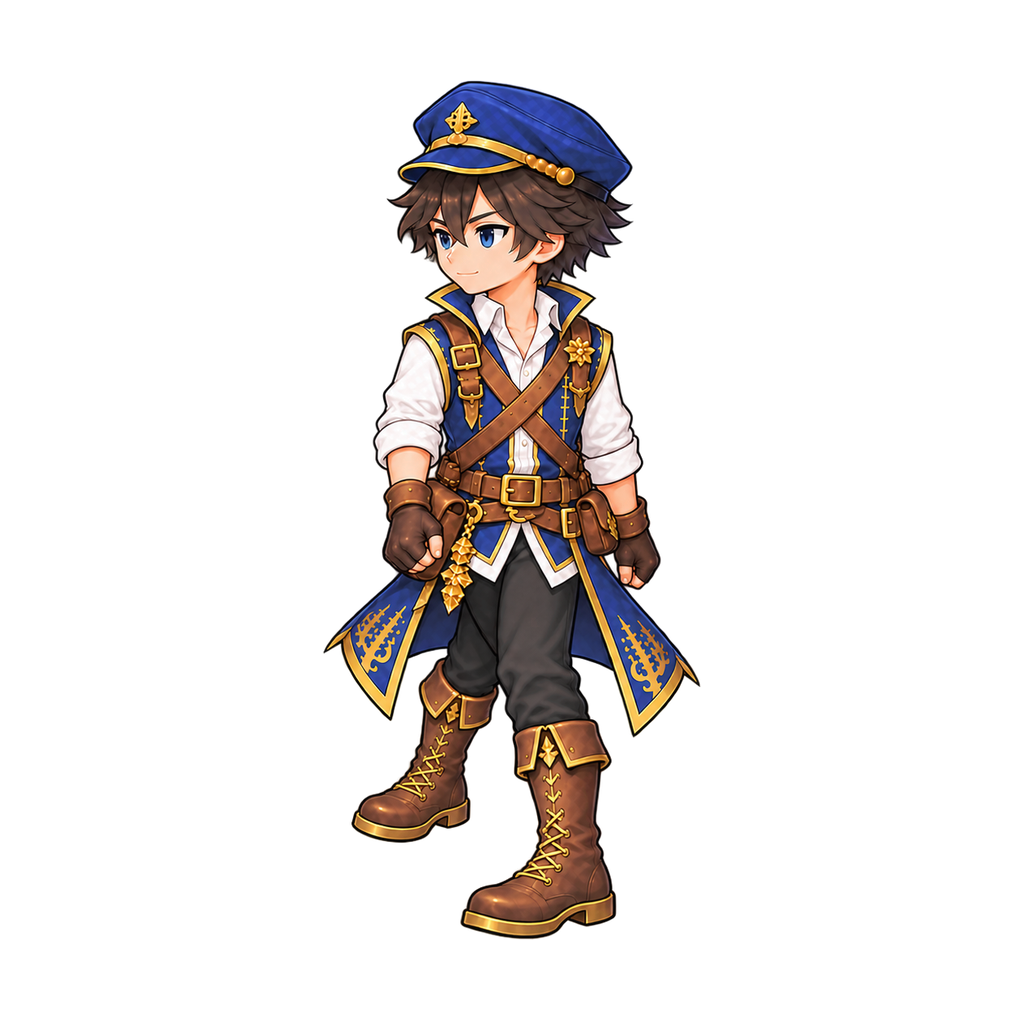
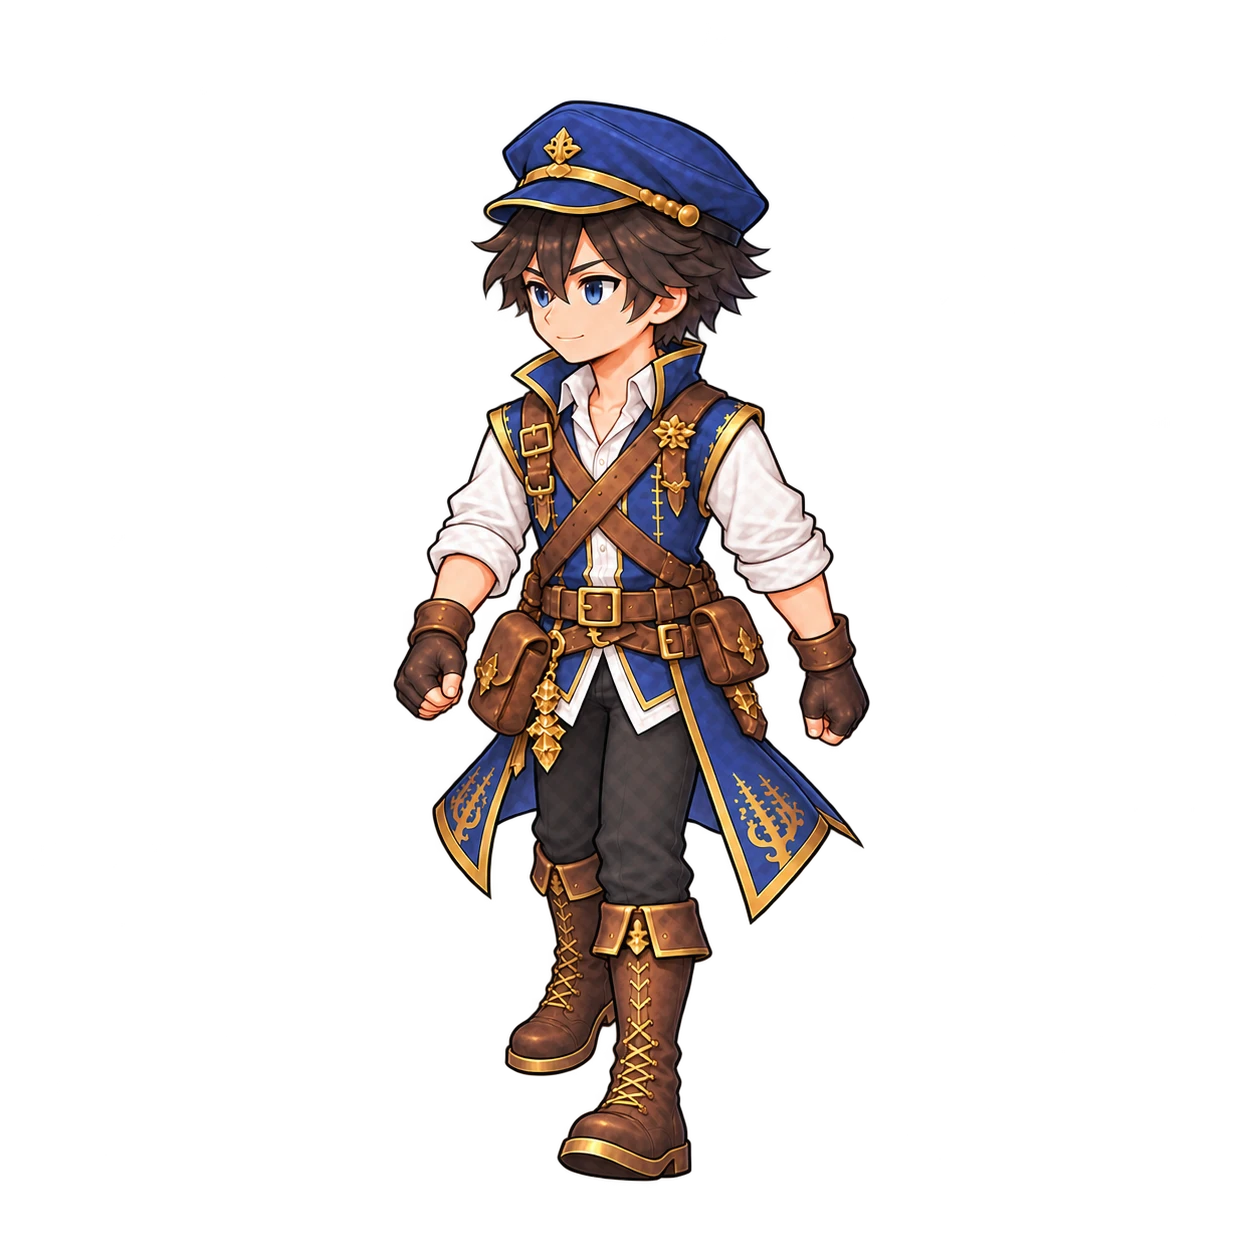
男性主人公の斜め前・右足前と左足前を、別の生成AIで作った対の2枚に差し替え（ユーザー承認）
Claude-Session: https://claude.ai/code/session_01RvBABkjo9HJpsiThHncs5B

Changed region(s): [[0.3125, 0.0625, 0.6875, 0.9688]]

diff --git a/docs/handoff.md b/docs/handoff.md
@@ -23,7 +23,7 @@
 | 歩きのカクつき | **2026-10-23 `fix/smooth-walk`：街・部屋で歩くときのカクつきを直した（`a2b5b51` で公開。ユーザーの iPhone 確認待ち。問題が残れば「半歩」の歩きの絵を頼んで足す、とユーザー）**。原因は1マス進むごとに1コマ止まっていたこと（iPhone の画面録画で6コマに1回止まっていた）。マスに着いたら、あまった時間でそのまま次のマスへ進むように（`#step`・`#startNext`）。地図の位置は論理px ではなく画面の実際の画素でそろえる（`#pixelSnap`。人物が地図に対して揺れないように）。作業環境では止まるコマが 0 になったことを確認。iPhone では未確認。あわせて、足の動きを4コマ→8コマにするための「半歩」のポーズの依頼文を作った（`docs/design/walk-inbetween-20261023/`。まず主人公（男性）の正面1枚。届いたら組み込んで比べる。いまの絵と違いが大きければ使わない） |
 | 人物の大きさ・走る | **2026-10-23 `feature/walk-run-size`（`07a768c` で公開。ユーザーの iPhone 確認待ち）**：①人物を 1.2 倍に（`FIGURE_ZOOM`。街・部屋の全員。ダンジョンは変えない）。ぼやけないよう歩行シートを原本から 1.5 倍（1コマ 324×432）・WebP で作り直した（`adult_walk_build.py --scale 1.5`）②走る：スティックを大きく倒す（36 論理px 以上、28 未満で歩きに戻る）と 1.7 倍の速さ。スティックのつまみが金色に。パソコンは Shift。走る絵が無いので歩きの絵を大きな歩幅（背たけ×0.6）・大きな弾みで③なめらかさ：歩き出しの加速（0.15秒）・止まる最後のマスの減速、カメラが少し遅れて追う（`CAMERA_FOLLOW`）。走る絵の依頼文は `docs/design/run-20261023/`（主人公2人だけ）。作業環境で全部屋の表示と動きを確認。iPhone は未確認 |
 | コマ飛び対策・横幅 | **2026-10-23 `fix/walk-perf`（公開。ユーザーの iPhone 確認待ち）**：iPhone の画面録画（14:11）で、走ると2コマに1回ほどコマが飛んでいた（作業環境の Chromium では再現しない）。対策：人物の色の調整を CSS の filter から絵への焼き込みに（`adult_walk_build.py --tone`）、歩行シートを 1.5 倍→1.25 倍（1コマ 270×360）、主人公と影を別の層に（`will-change`）、毎コマの z-index・data 属性の書き換えを変わったときだけに。主人公の横幅 1.1 倍（`PLAYER_WIDEN`。ユーザーが比べる画像で選択）。斜め移動がチープ → 斜め向きの絵の依頼文 `docs/design/diagonal-20261023/`（主人公2人×斜め前・斜め後ろ。右は反転）。「斜めには進めず4方向だけ」のつなぎ案は承認待ちで未実装 |
-| 斜め向きの絵 | **2026-10-23**：原本は `design-parts/characters-adult/player_{male,female}_{downleft,upleft}_{stand,rightfoot,leftfoot}.png`（作業ブランチ `docs/diagonal-redo`。main には未反映）。やり方は「1枚に1ポーズ・まず立ち姿→足だけ変える」（`docs/design/diagonal-20261023/v2/`）。**作り直し待ち**：男性の斜め前・左足前（2回とも足がねじれた。別の生成AI向け一式 `v2/fix-male-downleft-leftfoot/`）、女性の斜め前・左足前（足が少しねじれ）と右足前（スカートが大きくはねる・左手がベルト）（一式 `v2/fix-female-downleft/`）。ZIP はユーザーに渡し済み。確認では細部に加え「進む方向に体と足が向いているか・足がねじれていないか・右足前と左足前が対か」を見る。そろったら男女まとめてゲームに組み込む（シートに斜めの行を足し、`facing` を8方向に。右は左右反転）。組み込みは未実装 |
+| 斜め向きの絵 | **2026-10-23**：原本は `design-parts/characters-adult/player_{male,female}_{downleft,upleft}_{stand,rightfoot,leftfoot}.png`（作業ブランチ `docs/diagonal-redo`。main には未反映）。やり方は「1枚に1ポーズ・まず立ち姿→足だけ変える」（`docs/design/diagonal-20261023/v2/`）。男性の斜め前・右足前と左足前は、別の生成AIで作った対の2枚に差し替えて採用（2026-10-23 ユーザー承認。この2枚だけキャンバス 1254×1254・人物の高さ約1080 で、ほかの絵〔1024×1024・約860〕と大きさが違う → 組み込むときは1枚ずつ背の高さでそろえる）。**作り直し待ち**：女性の斜め前・左足前（足が少しねじれ）と右足前（スカートが大きくはねる・左手がベルト）（一式 `v2/fix-female-downleft/`）。ZIP はユーザーに渡し済み。確認では細部に加え「進む方向に体と足が向いているか・足がねじれていないか・右足前と左足前が対か」を見る。そろったら男女まとめてゲームに組み込む（シートに斜めの行を足し、`facing` を8方向に。右は左右反転）。組み込みは未実装 |
 | 次の作業 | **新しいセッションでは、ユーザーの次の指示を待つ**。候補（どれもユーザーの指示・承認があってから）：(a) 案内役の流れの作り込み（街から練習場まで先に立って歩いて案内する動き。いまは先に練習場で待つ）(b) 住人の会話・呼び名の正式化（いまは仮）(c) 会話の顔の絵の形を決める・バトル中の対戦相手の顔とセリフ（下の③④）。以下は 2026-10-23 の記録：①〜③は `bd4fcb4` で公開済み・iPhone 確認 OK。①街・部屋の大人向けの絵（研究所の「水晶の台」の文・郵便受けなどの変化もそのままで問題なし）。②大人の人物と歩き方：歩き方＝向きは「いまの向きの成分がある斜めなら変えない」＋スティックの境目に 8度の余裕（`facing`・`STICK_HOLD`）、コマ送りは時間でなく歩いた距離で（1歩＝背たけ×0.45＝約36 論理px。`STEP_PER_HEIGHT`。前は 7コマ/秒）。**③男性主人公・店員・研究員・受付・先生・住人A〜E も入れた（2026-10-23・作業ブランチ・ユーザー確認待ち）**：店員などは話しかけるとカウンターなどと同じ画面、住人は仮の会話2つを交互に。案内役は最初の練習試合のあと「家に戻る」と言ってとなりの家へ（`guidePlace` が 'home'）。**ユーザーは「案内役の流れ・住人の会話は今後詰める」**。案内役が街から練習場まで先導して歩く動きは未実装（いまは先に練習場で待つ）。**②次便で人物の歩行の絵が届く → 組み込みと歩き方の調整（下の①②）**。以下はそれまでのメモ：頼んでいたデザインの納品が届くので、反映する（2026-10-23 ユーザー：新しいセッションで納品→反映）。届く可能性があるもの：①人物の描き直し（`docs/design/characters-adult-20261022/`。まず主人公（男性））、②街・部屋の大人向けの描き直し（`docs/design/adult-redesign-20261023/`。まず主人公の家1枚）、③それ以外（縦長の部屋・UI・ダンジョン・斜め歩き：`docs/design/genai-request-20261022/`）。どれも 8章「デザインが届いたときの組み込み方」の手順で、いまの絵と並べて比較画像を返し、ユーザーが決めてから使う。大人向けの絵が入ったら `world.css` の色調整の `filter`（彩度 0.72）を見直す。**歩きの絵を反映するときに、歩き方も調整する**（ユーザー指示 2026-10-23）：①斜め45度あたりで正面と横向きの絵が細かく入れ替わらないよう、向きをすぐには変えない②歩く速さ（231 論理px/秒・1.25倍にした）に足の動き（`WALK_FPS`=7）を合わせ、足がすべって見えないようにする。斜め向きの絵は任意・後回し（4方向をそろえるのが先）。**納品の反映が終わったら考えて提案する**（実装はユーザー承認後）：③会話で NPC の顔を出すか・出すならどんな絵か（いまは案内役だけ会話の絵6表情あり。ほかの NPC の会話の絵は `docs/design/quality-pass-20261022/` で別担当に依頼中）④バトル中に対戦相手の顔とセリフを出す（ユーザー希望。PS版『モンスターファーム バトルカード』を参考に、画面のどこに・いつ・どんな大きさで出すかとデザインの依頼文を考える）。**③④のユーザーの考え（2026-10-23）**：いまの案内役の会話の絵（胸から上・画面上 184×230 論理px）は大きすぎる。この大きさで対戦相手も作るとバトルに集中できない。→ 小さめの「顔の絵」の形を1つ決めて、会話でもバトルでも共通で使えるようにしたい（案内役の絵の作り直し・見せ方の変更も含めて検討）。いま別担当が作っている店員などの NPC の絵とは別の話 |
 
 ## 2. これまでの作業（時系列・要点だけ）
